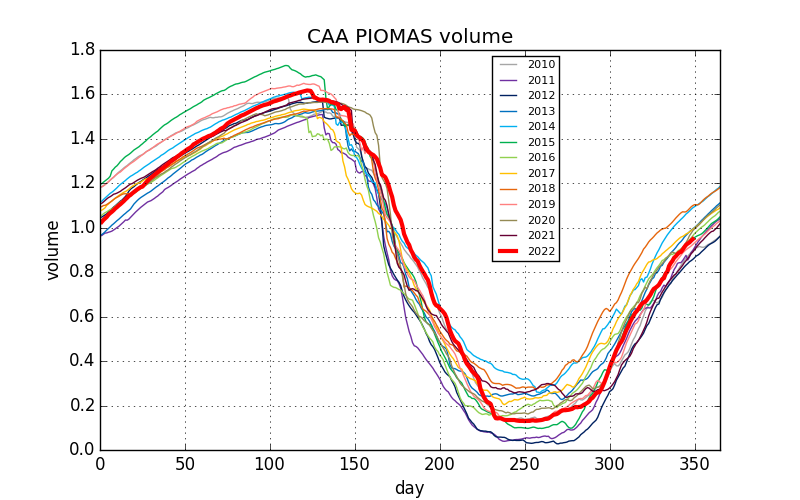
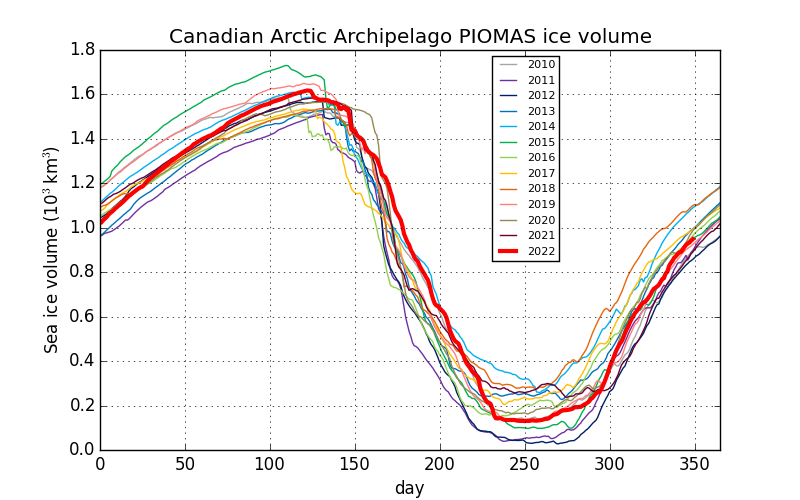
Add PIOMAS volume and Fram export graphs

diff --git a/piomas/piomas.html b/piomas/piomas.html
@@ -11,12 +11,13 @@
 	</style>
 </head>
 <body>
-<div style="padding: 20px;">
-	All data calculated from <a href="http://psc.apl.uw.edu/research/projects/arctic-sea-ice-volume-anomaly/data/model_grid">Polar Science Center (Zhang et al.)</a>
-	<h2 id="csv">PIOMAS spreadsheets</h2>
+<div style="padding: 20px; width: 1200px;">
+	<div style="max-width: 600px;">All images and data below are calculated from the PIOMAS gridded sea ice thickness data provided by the <a href="http://psc.apl.uw.edu/research/projects/arctic-sea-ice-volume-anomaly/data/model_grid">Polar Science Center (Zhang et al.)</a>
+	</div>
+	<h2 id="csv">Sea ice volume spreadsheets</h2>
 	<ul>
 		<li>
-			<a href="https://www.dropbox.com/s/4p5w1alhsfvtput/piomas-daily-volume.csv">Daily volume</a>
+			<a href="https://www.dropbox.com/s/4p5w1alhsfvtput/piomas-daily-volume.csv">Daily sea ice volume</a>
 		</li>
 		<li>
 			<a href="https://www.dropbox.com/s/2d9a8b9az8gsj91/piomas_regional_volume_monthly.csv">Regional monthly volume</a>
@@ -31,8 +32,8 @@
 			<a href="https://www.dropbox.com/s/p1km3efvf2fbmx2/piomas_fram_fjl_export.csv">Fram-FJL export</a>	
 		</li>
 	</ul>
-	
-	<h2 id="maps">PIOMAS thickness maps</h2>
+		
+	<h2 id="maps">Latest sea ice thickness maps</h2>
 	<div class="row">
 		<div class="col-lg-6">
 			<img src="piomas-thickness-daily-latest.png" alt="Ice thickness map" class="piomas-map">
@@ -42,16 +43,56 @@
 		</div>
 		<div class="col-lg-6 piomas-map">
 			<img src="piomas-thickness-difference-latest.png" alt="Ice difference change in the last 2 weeks" class="piomas-map">
+		</div>		
+	</div>
+	
+	<h2 id="graphs">Sea ice volume graphs</h2>
+	<div class="row">
+		<div class="col-lg-6">
+			<img src="piomas-volume.png" alt="Volume graph" class="piomas-map">
+		</div>
+		<div class="col-lg-6">
+			<img src="piomas-volume-anomaly.png" alt="Volume anomaly graph" class="piomas-map">
+		</div>
+	</div>
+	
+	<h2 id="fram">Fram Strait export</h2>
+	<div style="padding-left: 4em;">		
+		<label style="padding-left: 2em;">Definition of Fram Strait (yellow line) and an extension to Franz Josef Land (red line):</label>
+		<div>
+			<img src="piomas-grid-lines.png" alt="Fram Strait definitions" style="max-width: 540px;">
+		</div>
+	</div>
+	<div class="row">
+		<div class="col-lg-6">
+			<img src="piomas-fram-export.png" alt="Sea ice export through Fram Strait" class="piomas-map">
+		</div>
+		<div class="col-lg-6">
+			<img src="piomas-fram-fjl-export.png" alt="Sea ice export through Fram Strait-FJL" class="piomas-map">
 		</div>
 	</div>
 
-	<h2 id="regional">PIOMAS regional volume graphs</h2>
+	<h2 id="regional">Regional sea ice volume graphs</h2>
+	<div style="max-width: 300px; max-height: 400px; padding-left: 6em;">
+		<label>Definition of the regions:</label>
+		<img src="https://i.imgur.com/5rKPNwV.png" alt="Region definitions" class="piomas-map">
+	</div>	
+	
 	<div class="row">
+		<div class="col-lg-6 piomas-map">
+			<img src="piomas-cab-volume.png" alt="Central Arctic Basin" class="piomas-map">
+		</div>
+		<div class="col-lg-6 piomas-map">
+			<img src="piomas-caa-volume.png" alt="Canadian Arctic Archipelago" class="piomas-map">
+		</div>
 		<div class="col-lg-6 piomas-map">
 			<img src="piomas-beaufort-volume.png" alt="Beaufort Sea" class="piomas-map">
 		</div>
 		<div class="col-lg-6 piomas-map">
 			<img src="piomas-chukchi-volume.png" alt="Chukchi Sea" class="piomas-map">
+		</div>
+		<div class="col-lg-6 piomas-map">
+			<img src="piomas-bering-volume.png" alt="Bering Sea" class="piomas-map">
 		</div>
 		<div class="col-lg-6 piomas-map">
 			<img src="piomas-ess-volume.png" alt="East Siberian Sea" class="piomas-map">
@@ -69,19 +110,10 @@
 			<img src="piomas-greenland-volume.png" alt="Greenland Sea" class="piomas-map">
 		</div>
 		<div class="col-lg-6 piomas-map">
-			<img src="piomas-cab-volume.png" alt="Central Arctic Basin" class="piomas-map">
-		</div>
-		<div class="col-lg-6 piomas-map">
-			<img src="piomas-caa-volume.png" alt="Canadian Arctic Archipelago" class="piomas-map">
-		</div>
-		<div class="col-lg-6 piomas-map">
 			<img src="piomas-baffin-volume.png" alt="Baffin Bay" class="piomas-map">
 		</div>
 		<div class="col-lg-6 piomas-map">
 			<img src="piomas-hudson-volume.png" alt="Hudson Bay" class="piomas-map">
-		</div>
-		<div class="col-lg-6 piomas-map">
-			<img src="piomas-bering-volume.png" alt="Bering Sea" class="piomas-map">
 		</div>
 		<div class="col-lg-6 piomas-map">
 			<img src="piomas-okhotsk-volume.png" alt="Sea of Okhotsk" class="piomas-map">
